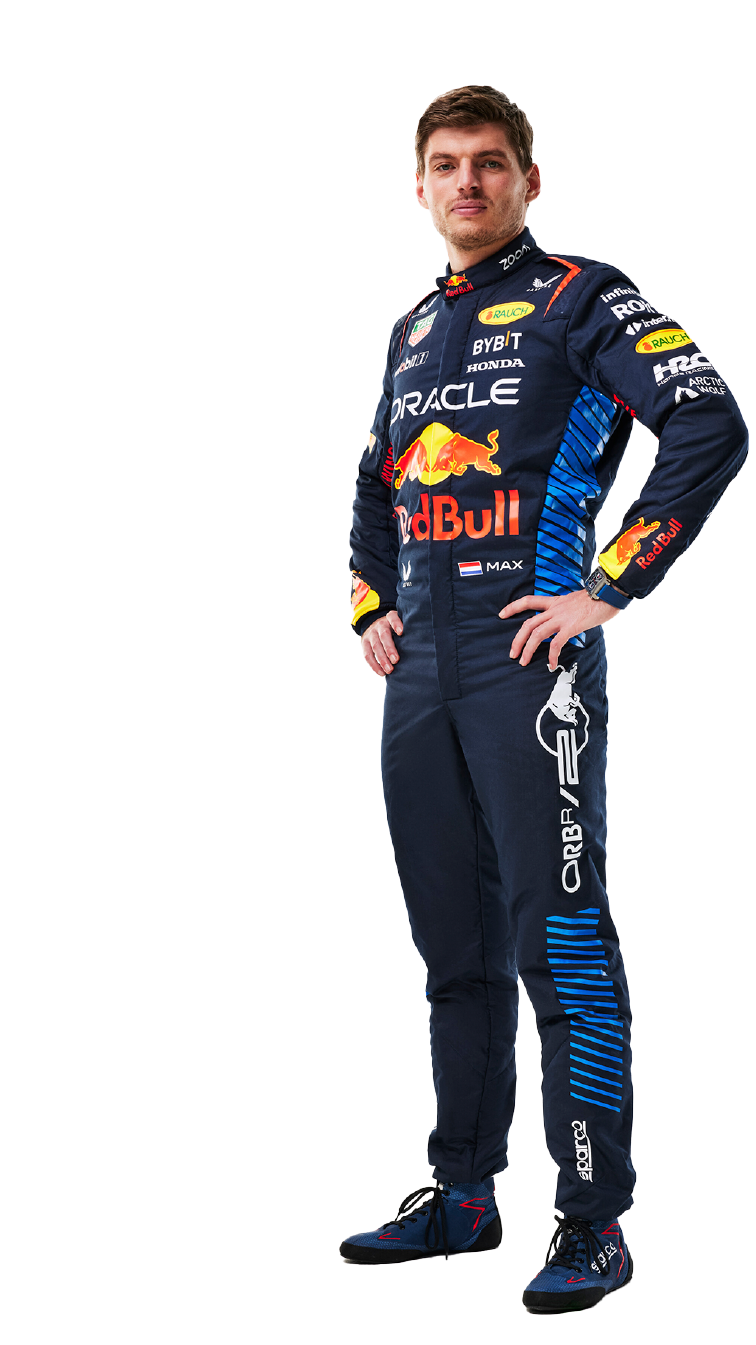
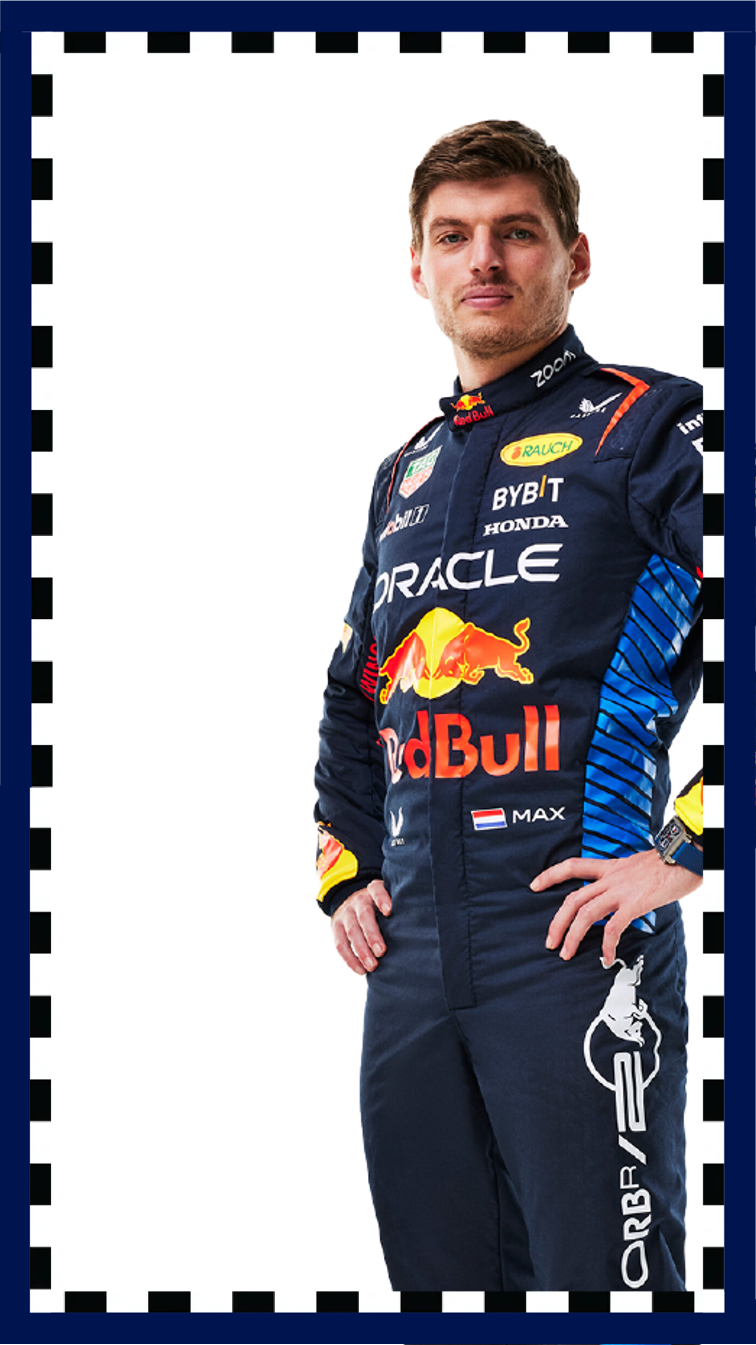
1. Corrección diseño marcos

diff --git a/public/js/camara.js b/public/js/camara.js
@@ -16,9 +16,9 @@ document.addEventListener('DOMContentLoaded', () => {
             .then(stream => {
                 video.srcObject = stream;
 
-                video.play(); 
+                video.play();
 
-                
+
                 // Ajustar el tamaño del canvas al tamaño del video
                 video.addEventListener('loadedmetadata', () => {
                     canvas.width = 756;
@@ -31,39 +31,48 @@ document.addEventListener('DOMContentLoaded', () => {
     }
 
     captureButton.addEventListener('click', () => {
-        setTimeout(() => {
-            const context = canvas.getContext('2d');
-            // Dibujar el video en el canvas
-            context.drawImage(video, 0, 0, canvas.width, canvas.height);
-
-            // Dibujar la imagen superpuesta en el canvas
-            const overlayWidth = canvas.width;
-            const overlayHeight = canvas.height;
-            const overlayX = 0;
-            const overlayY = 0;
-
-            context.drawImage(overlay, overlayX, overlayY, overlayWidth, overlayHeight);
-
-            // Obtener la imagen capturada como data URL
-            const dataURL = canvas.toDataURL('image/png');
-            capturedImage.src = dataURL;
-            // capturedImage.style.display = 'block';
-
-            axios.post('/storePhoto', {
-                image: dataURL
-            })
-            .then(response => {
-                let data = response.data;
-                if (data.code == 200){
-                    window.location.href = '/qr?image=' + data.image;
-                }
-            })
-            .catch(error => {
-                console.error("Error saving the image: ", error);
-            });
+        let seconds = 5;
+        let captureInterval = setInterval(() => {
+            captureButton.innerText = `${seconds}`;
+            seconds--;
+            if (seconds < 0){
+                clearInterval(captureInterval);
+                capture();
+            }
         }, 1000);
     });
 
+    function capture(){
+        const context = canvas.getContext('2d');
+        // Dibujar el video en el canvas
+        context.drawImage(video, 0, 0, canvas.width, canvas.height);
+
+        // Dibujar la imagen superpuesta en el canvas
+        const overlayWidth = canvas.width;
+        const overlayHeight = canvas.height;
+        const overlayX = 0;
+        const overlayY = 0;
+
+        context.drawImage(overlay, overlayX, overlayY, overlayWidth, overlayHeight);
+
+        // Obtener la imagen capturada como data URL
+        const dataURL = canvas.toDataURL('image/png');
+        capturedImage.src = dataURL;
+        // capturedImage.style.display = 'block';
+
+        axios.post('/storePhoto', {
+            image: dataURL
+        })
+        .then(response => {
+            let data = response.data;
+            if (data.code == 200){
+                window.location.href = '/qr?image=' + data.image;
+            }
+        })
+        .catch(error => {
+            console.error("Error saving the image: ", error);
+        });
+    }
 
     startCamera();
 });

diff --git a/public/css/menus.css b/public/css/menus.css
@@ -42,7 +42,7 @@ body {
     -webkit-tap-highlight-color: transparent; /* Eliminar el contorno azul en dispositivos móviles */
 }
 
-.menu-item:nth-child(7) {
+.menu-item:nth-child(8) {
     margin-left: auto;
     margin-right: auto;
 }
@@ -68,6 +68,11 @@ body {
     width: 100%;
     height: 100%;
     object-fit: cover;
+}
+
+.button-captura {
+    width: 100px;
+    height: 100px;
 }
 
 #overlay {

diff --git a/resources/views/camera.blade.php b/resources/views/camera.blade.php
@@ -16,7 +16,7 @@
             <video id="video" autoplay></video>
             <img id="overlay" style="position: absolute; bottom: 0; left: 0; width: 100%; height: 100%;">
         </div>
-        <button id="capture">Capture</button>
+        <button id="capture" class="button-captura">Foto</button>
         <canvas id="canvas" width="756" height="1344" style="display: none;"></canvas>
         <img id="captured-image" style="display: none; margin-top: 20px;">
     </div>
@@ -24,4 +24,4 @@
     <script src="https://unpkg.com/axios/dist/axios.min.js"></script>
     <script src="{{ asset('js/camara.js') }}"></script>
 </body>
-</html> 
+</html>

diff --git a/resources/views/menu1.blade.php b/resources/views/menu1.blade.php
@@ -9,7 +9,7 @@
 <body>
     <div class="menu-container">
         <div class="menu">
-            <a href="/camera?overlay=nefbrad_1.png" class="menu-item" id="tatan1">
+            <a href="/camera?overlay=tatan_1.png" class="menu-item" id="tatan1">
                 <img src="{{ asset('assets/sub_menu/filtro/tatan_1.png') }}" alt="Logo" class="logo">
             </a>
             <a href="/camera?overlay=tatan_2.png" class="menu-item" id="tatan2">
